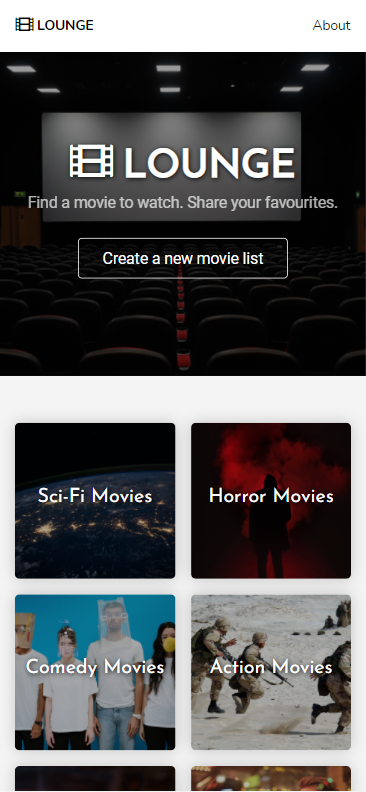
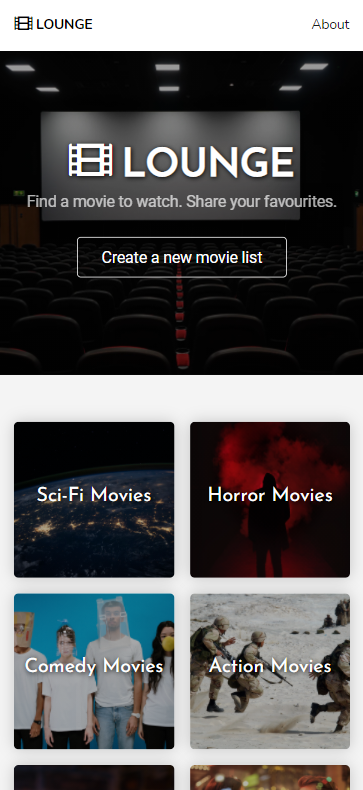
added arrow

diff --git a/source/assets/stylesheets/components/_banner.scss b/source/assets/stylesheets/components/_banner.scss
@@ -32,6 +32,25 @@
   transform: rotate(-10deg);
 }
 
+.arrow {
+  text-align: center;
+  padding: 64px 0 64px 0;
+  i {
+    cursor: pointer;
+    font-size: 24px;
+    color: black;
+    animation: hover 2.5S infinite;
+    animation-direction: alternate;
+  }
+}
+
+@keyframes hover {
+  from { transform: translateY(0%); }
+  to { transform: translateY(150%); }
+}
+
+
+// Media Queries
 @media(max-width: 768px) {
 
   .banner {
@@ -51,9 +70,11 @@
 }
 
 @media(max-width: 576px) {
-  
   .banner {
     border-radius: 0px;
     margin: 0px
+  }
+  .arrow {
+    padding: 150px 0 170px 0;
   }
 }
